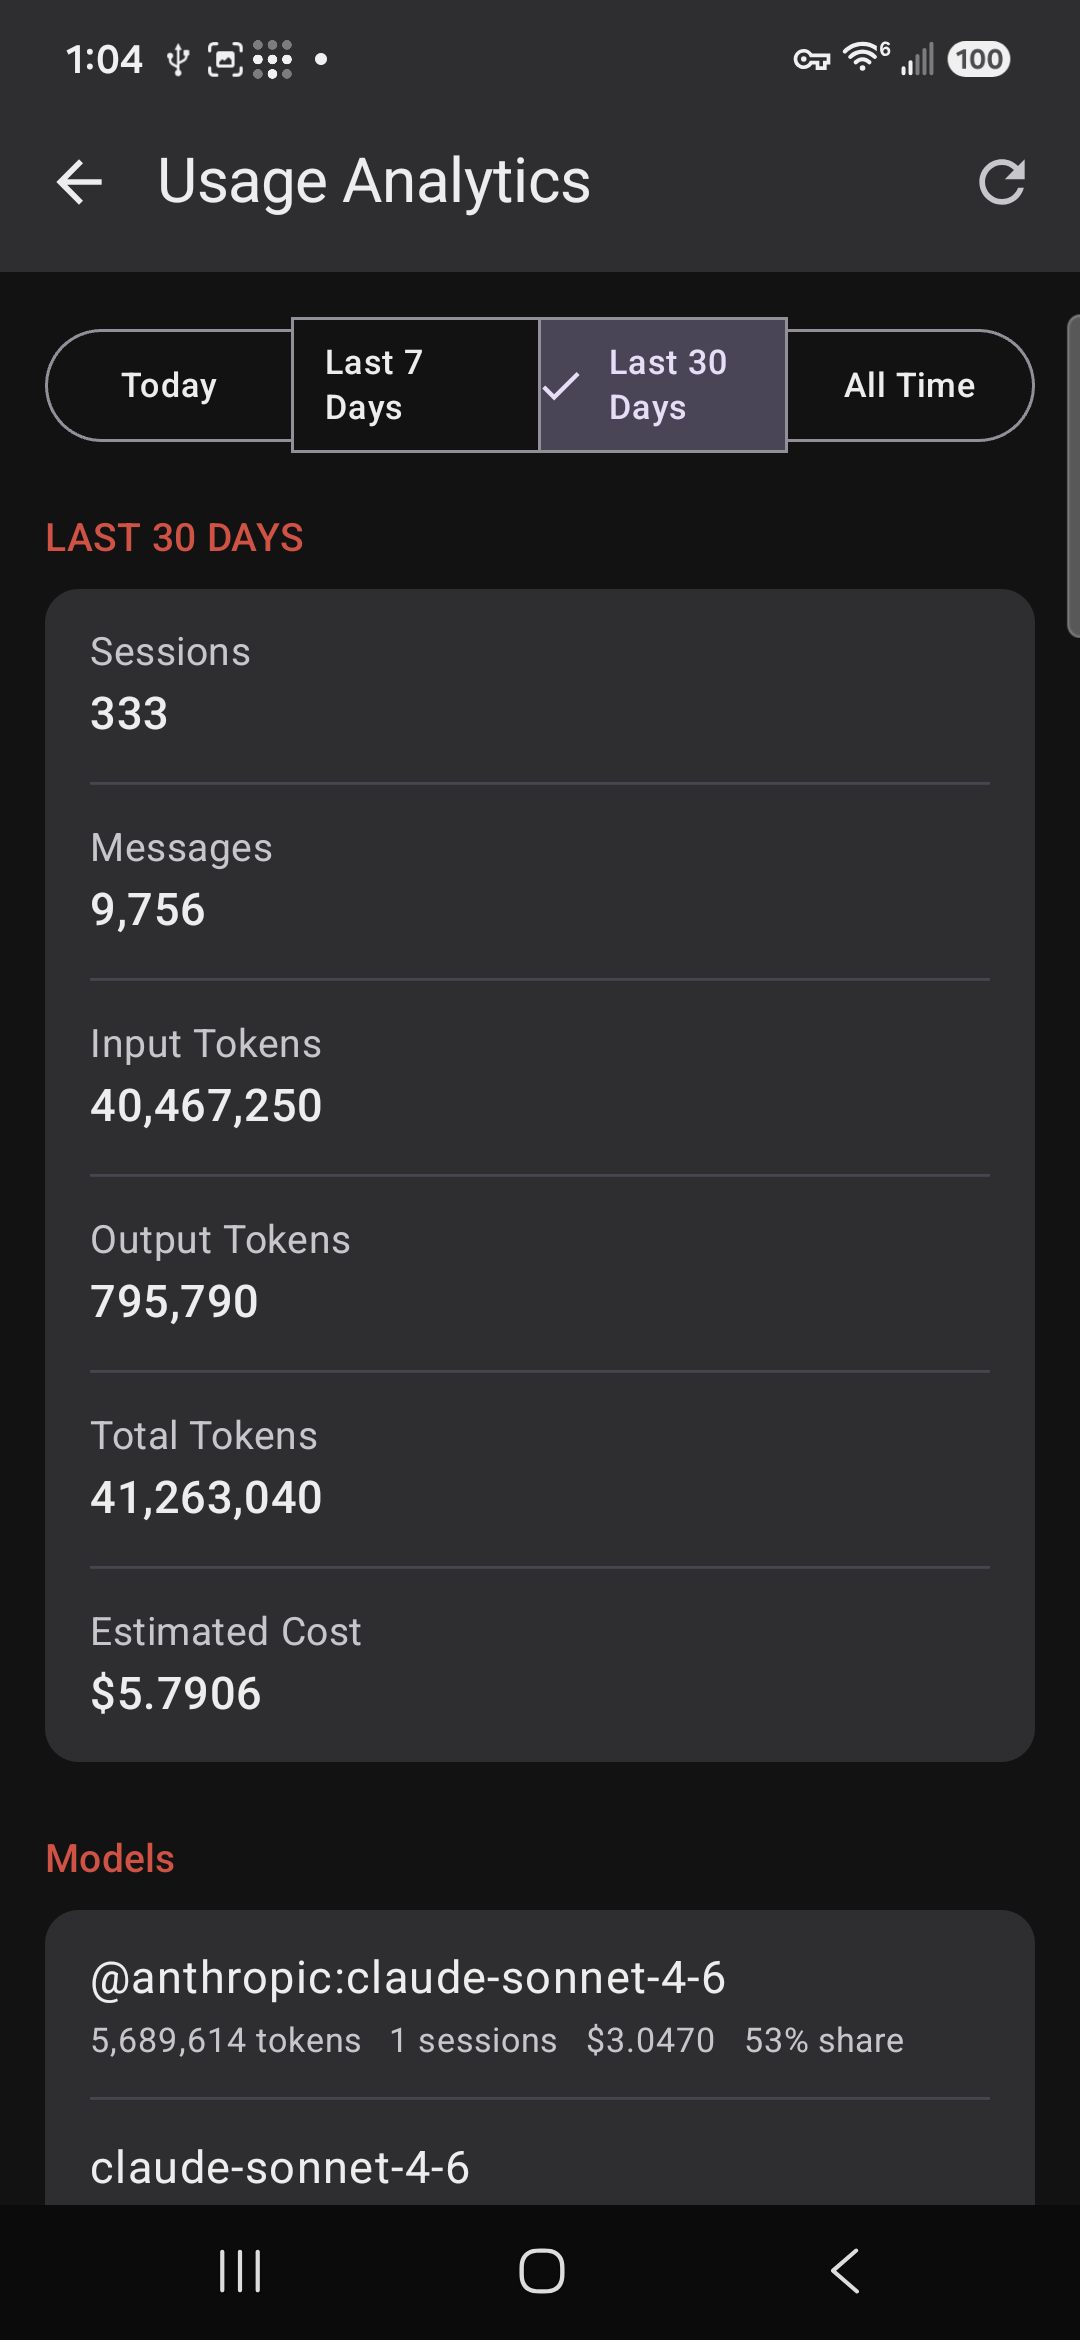
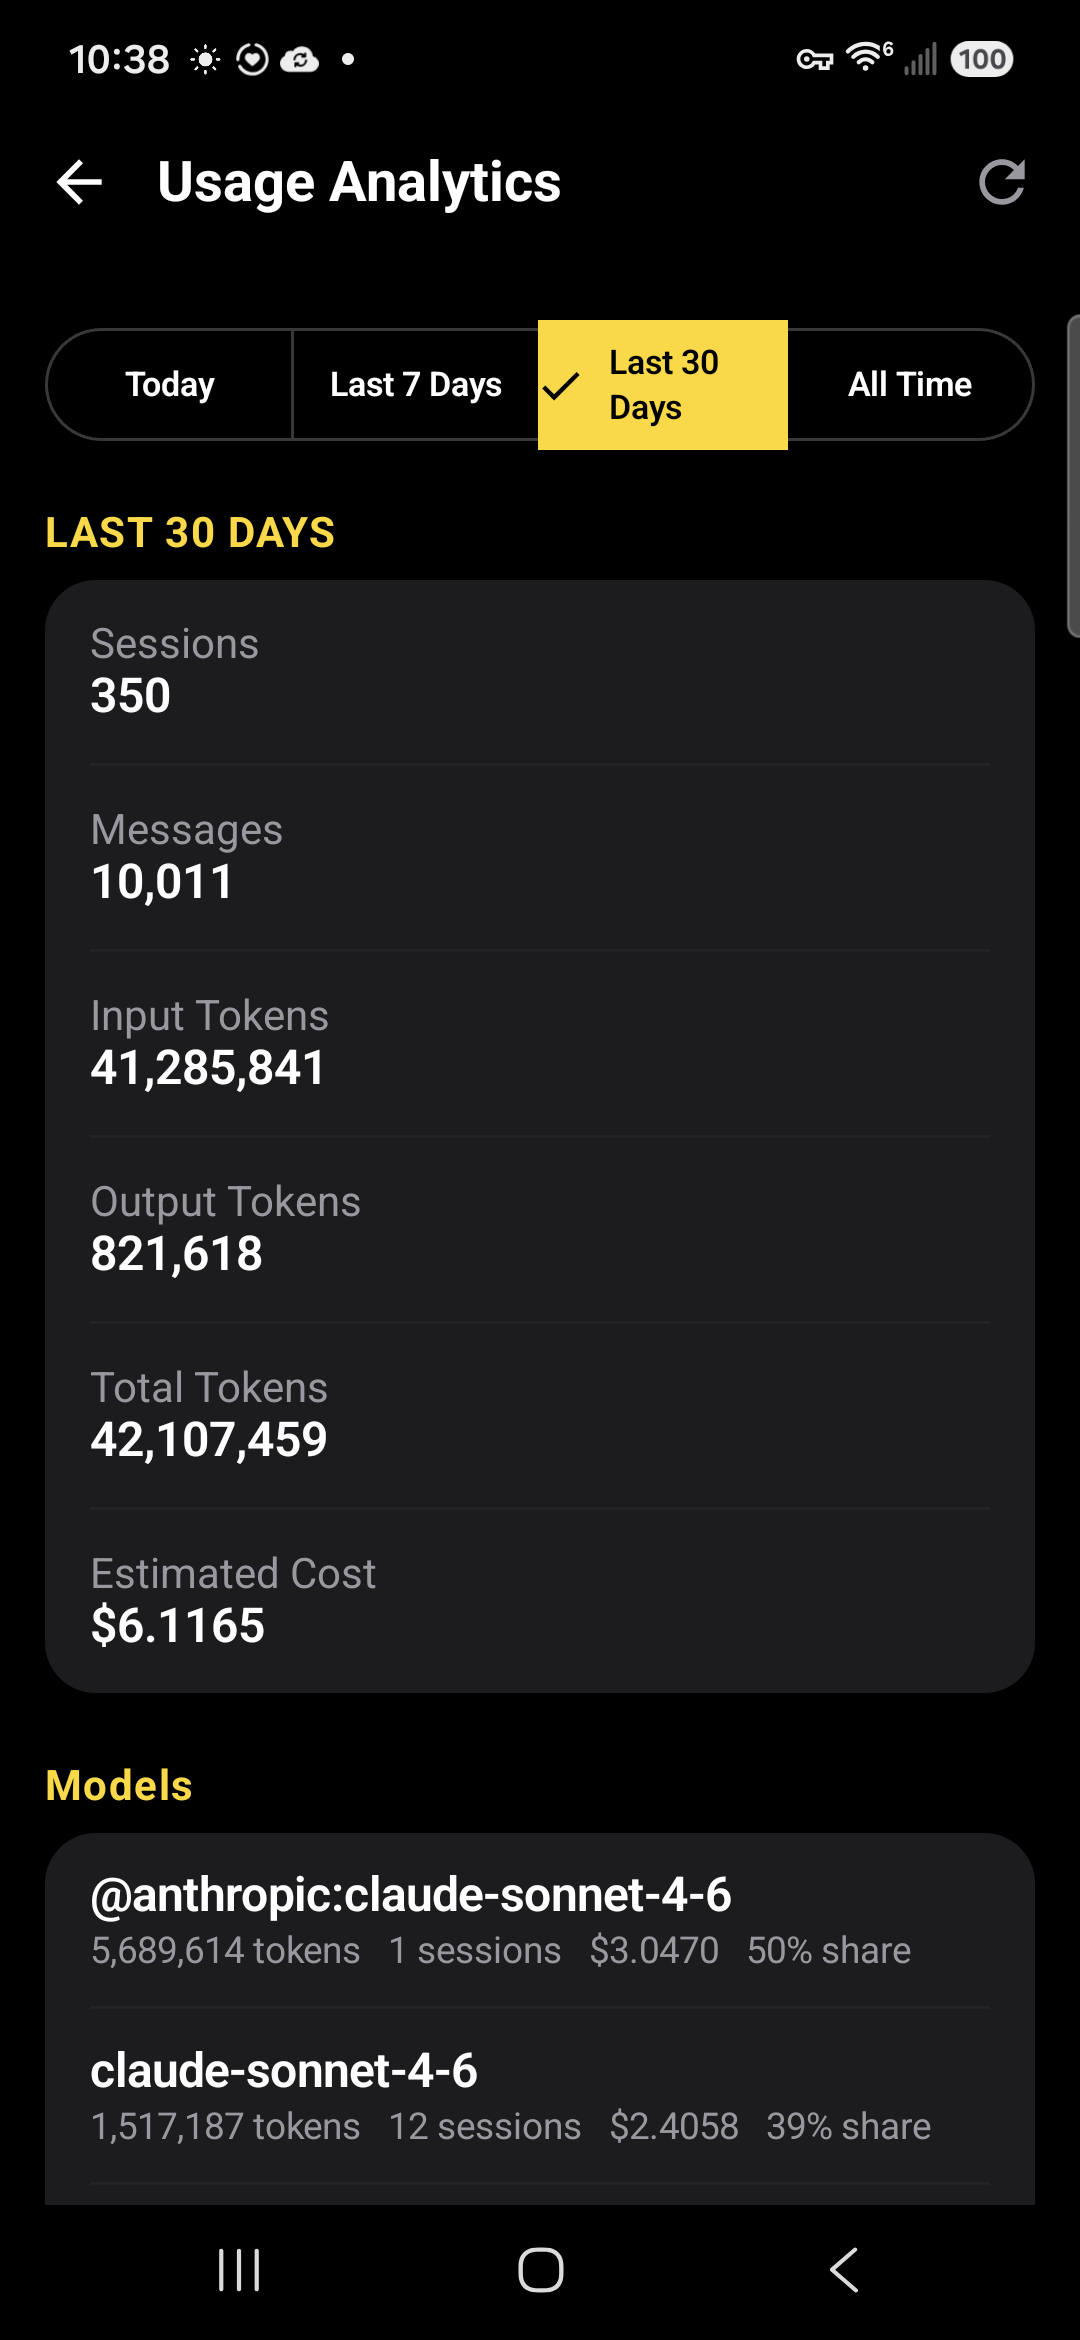
Update README screenshots for UI preview
Refreshes session-list.png, insights.png, and projects.png with the current
home/sidebar visual hierarchy (wordmark, session date grouping, refreshed
nav/FAB), adds search.png, chat.png, and workspace.png, and updates the
README's status/feature/screenshot sections to match.

diff --git a/README.md b/README.md
@@ -6,48 +6,56 @@ Hermex app.
 
 ## Status
 
-**Active development / preview build — current version: v0.9.0-preview.**
+**Active development / UI preview build — current version: v0.9.1-preview.**
 
 This is not a final Play Store release yet, but the app is already running on real Android
-hardware against a real Hermes server. See `API_CONTRACT.md` for the verified server API contract
-this app targets.
+hardware against a real Hermes server. A recent pass refreshed the app's home/session-list visual
+hierarchy (Hermex wordmark branding, session date grouping, refined navigation) — see the
+Screenshots section below for the current look. See `API_CONTRACT.md` for the verified server API
+contract this app targets.
 
 ## Current Features
 
-- Native Android / Jetpack Compose UI
+- Native Android / Jetpack Compose UI, styled from a shared Hermex design system (colors, shape,
+  typography tokens) with a live-composited wordmark, bolder navigation typography, and
+  TODAY/YESTERDAY/date session grouping in the home/session list
 - Real server authentication and session loading
-- Chat with SSE token streaming and a stop control for in-progress runs
+- Sessions & Chat: SSE token streaming, a stop control for in-progress runs, session search, and a
+  refreshed "New Chat" affordance
 - Markdown rendering in chat (bold/italic, inline & fenced code, lists), plus tool call cards and
   collapsible reasoning blocks; copy message via long-press
 - Attachment upload: pick a file from the composer, it uploads immediately, and is attached to
   the next sent message (with upload-failure handling that preserves the composer's text/state)
-- Session list with search
-- Tasks, Skills, Memory, Profiles, Projects, and Insights (usage analytics) screens
+- Session-scoped workspace/file browser: folder navigation, text file preview and editing,
+  create/rename/move/delete, and git status/diff viewing for git-backed workspaces
+- Tasks: scheduled/cron job list and detail view
+- Skills: browse the server's configured skills by category, with detail view
+- Memory: view the server's stored memory content
+- Profiles: switch between configured server profiles (model, skills, provider)
+- Projects: create and browse projects that group sessions
+- Insights: usage analytics (sessions, messages, token counts, estimated cost) by time range and
+  model
 - Chat-scoped model switching (updates a session in place, matching iOS)
-- Multi-server switching
-- Per-server cookies
-- Per-server custom HTTP headers
+- Multi-server switching, per-server cookies, and per-server custom HTTP headers
 - Runtime app icon switching (Light/Dark/Disco/System), using the real iOS icon assets
-- Header logo color theming
-- Design tokens (colors, shape, typography) aligned to the Hermex design system; chat message
-  bubbles and the composer field styled from those tokens
+- Header logo color theming (also drives the home screen wordmark's tint)
 - Room-based offline cache for the session list, with per-server cache isolation
 - Room-based offline cache for chat/message history, with cache-first load and fallback banners
 - Offline cache retention: pruned once per app startup, per server, to the 50 most recently
   active sessions or 90 days old (whichever is stricter); orphaned cached messages are swept too
-- Session-scoped read-only workspace browser with folder navigation and text file preview
 - Android share target support for shared text, single files, and multiple files
 - Deep link entry routes for `hermex://` and `hermes-agent://`
 - Notification channel and notification routing foundation
 - Home screen widget entry surface
+- Settings: active server details, default model, custom headers, notification preferences, app
+  icon/header color appearance, and sign-out
 
 ## In Progress / Not Finished Yet
 
-- Workspace actions polish: copy path, refresh, search, and raw/open/download support
-- Git status/diff panels pending backend endpoint discovery
+- Workspace actions polish: copy path, raw/open/download support
 - Full chat composer redesign per the design system (pill-shaped chip row, capsule icon buttons,
-  translucent field architecture) — v0.9.0-preview only aligned the composer field's existing
-  shape/radius to design tokens, not the wider component architecture
+  translucent field architecture) — the composer field's shape/radius is aligned to design tokens,
+  but not the wider component architecture
 - More iOS parity polish
 - Play Store release hardening (this preview ships a debug build; release signing isn't set up yet)
 
@@ -60,16 +68,21 @@ from an unknown source — that's expected for a debug preview build.
 
 ## Screenshots
 
-| Sessions | Multi-server |
+| Home / Sessions | Search |
 |---|---|
-| ![Sessions](release-artifacts/screenshots/session-list.png) | ![Multi-server](release-artifacts/screenshots/multi-server.png) |
+| ![Home / Sessions](release-artifacts/screenshots/session-list.png) | ![Search](release-artifacts/screenshots/search.png) |
 
-| Insights | App Icons |
+| Chat | Workspace |
 |---|---|
-| ![Insights](release-artifacts/screenshots/insights.png) | ![App Icons](release-artifacts/screenshots/app-icon-picker.png) |
+| ![Chat](release-artifacts/screenshots/chat.png) | ![Workspace](release-artifacts/screenshots/workspace.png) |
 
-More screenshots (connection headers, header logo color, chat model picker, offline cache
-banner, projects) are in [`release-artifacts/screenshots/`](release-artifacts/screenshots).
+| Insights | Projects |
+|---|---|
+| ![Insights](release-artifacts/screenshots/insights.png) | ![Projects](release-artifacts/screenshots/projects.png) |
+
+More screenshots (multi-server, connection headers, header logo color, chat model picker, app
+icon picker, offline cache banner) are in
+[`release-artifacts/screenshots/`](release-artifacts/screenshots).
 
 ## Requirements
 